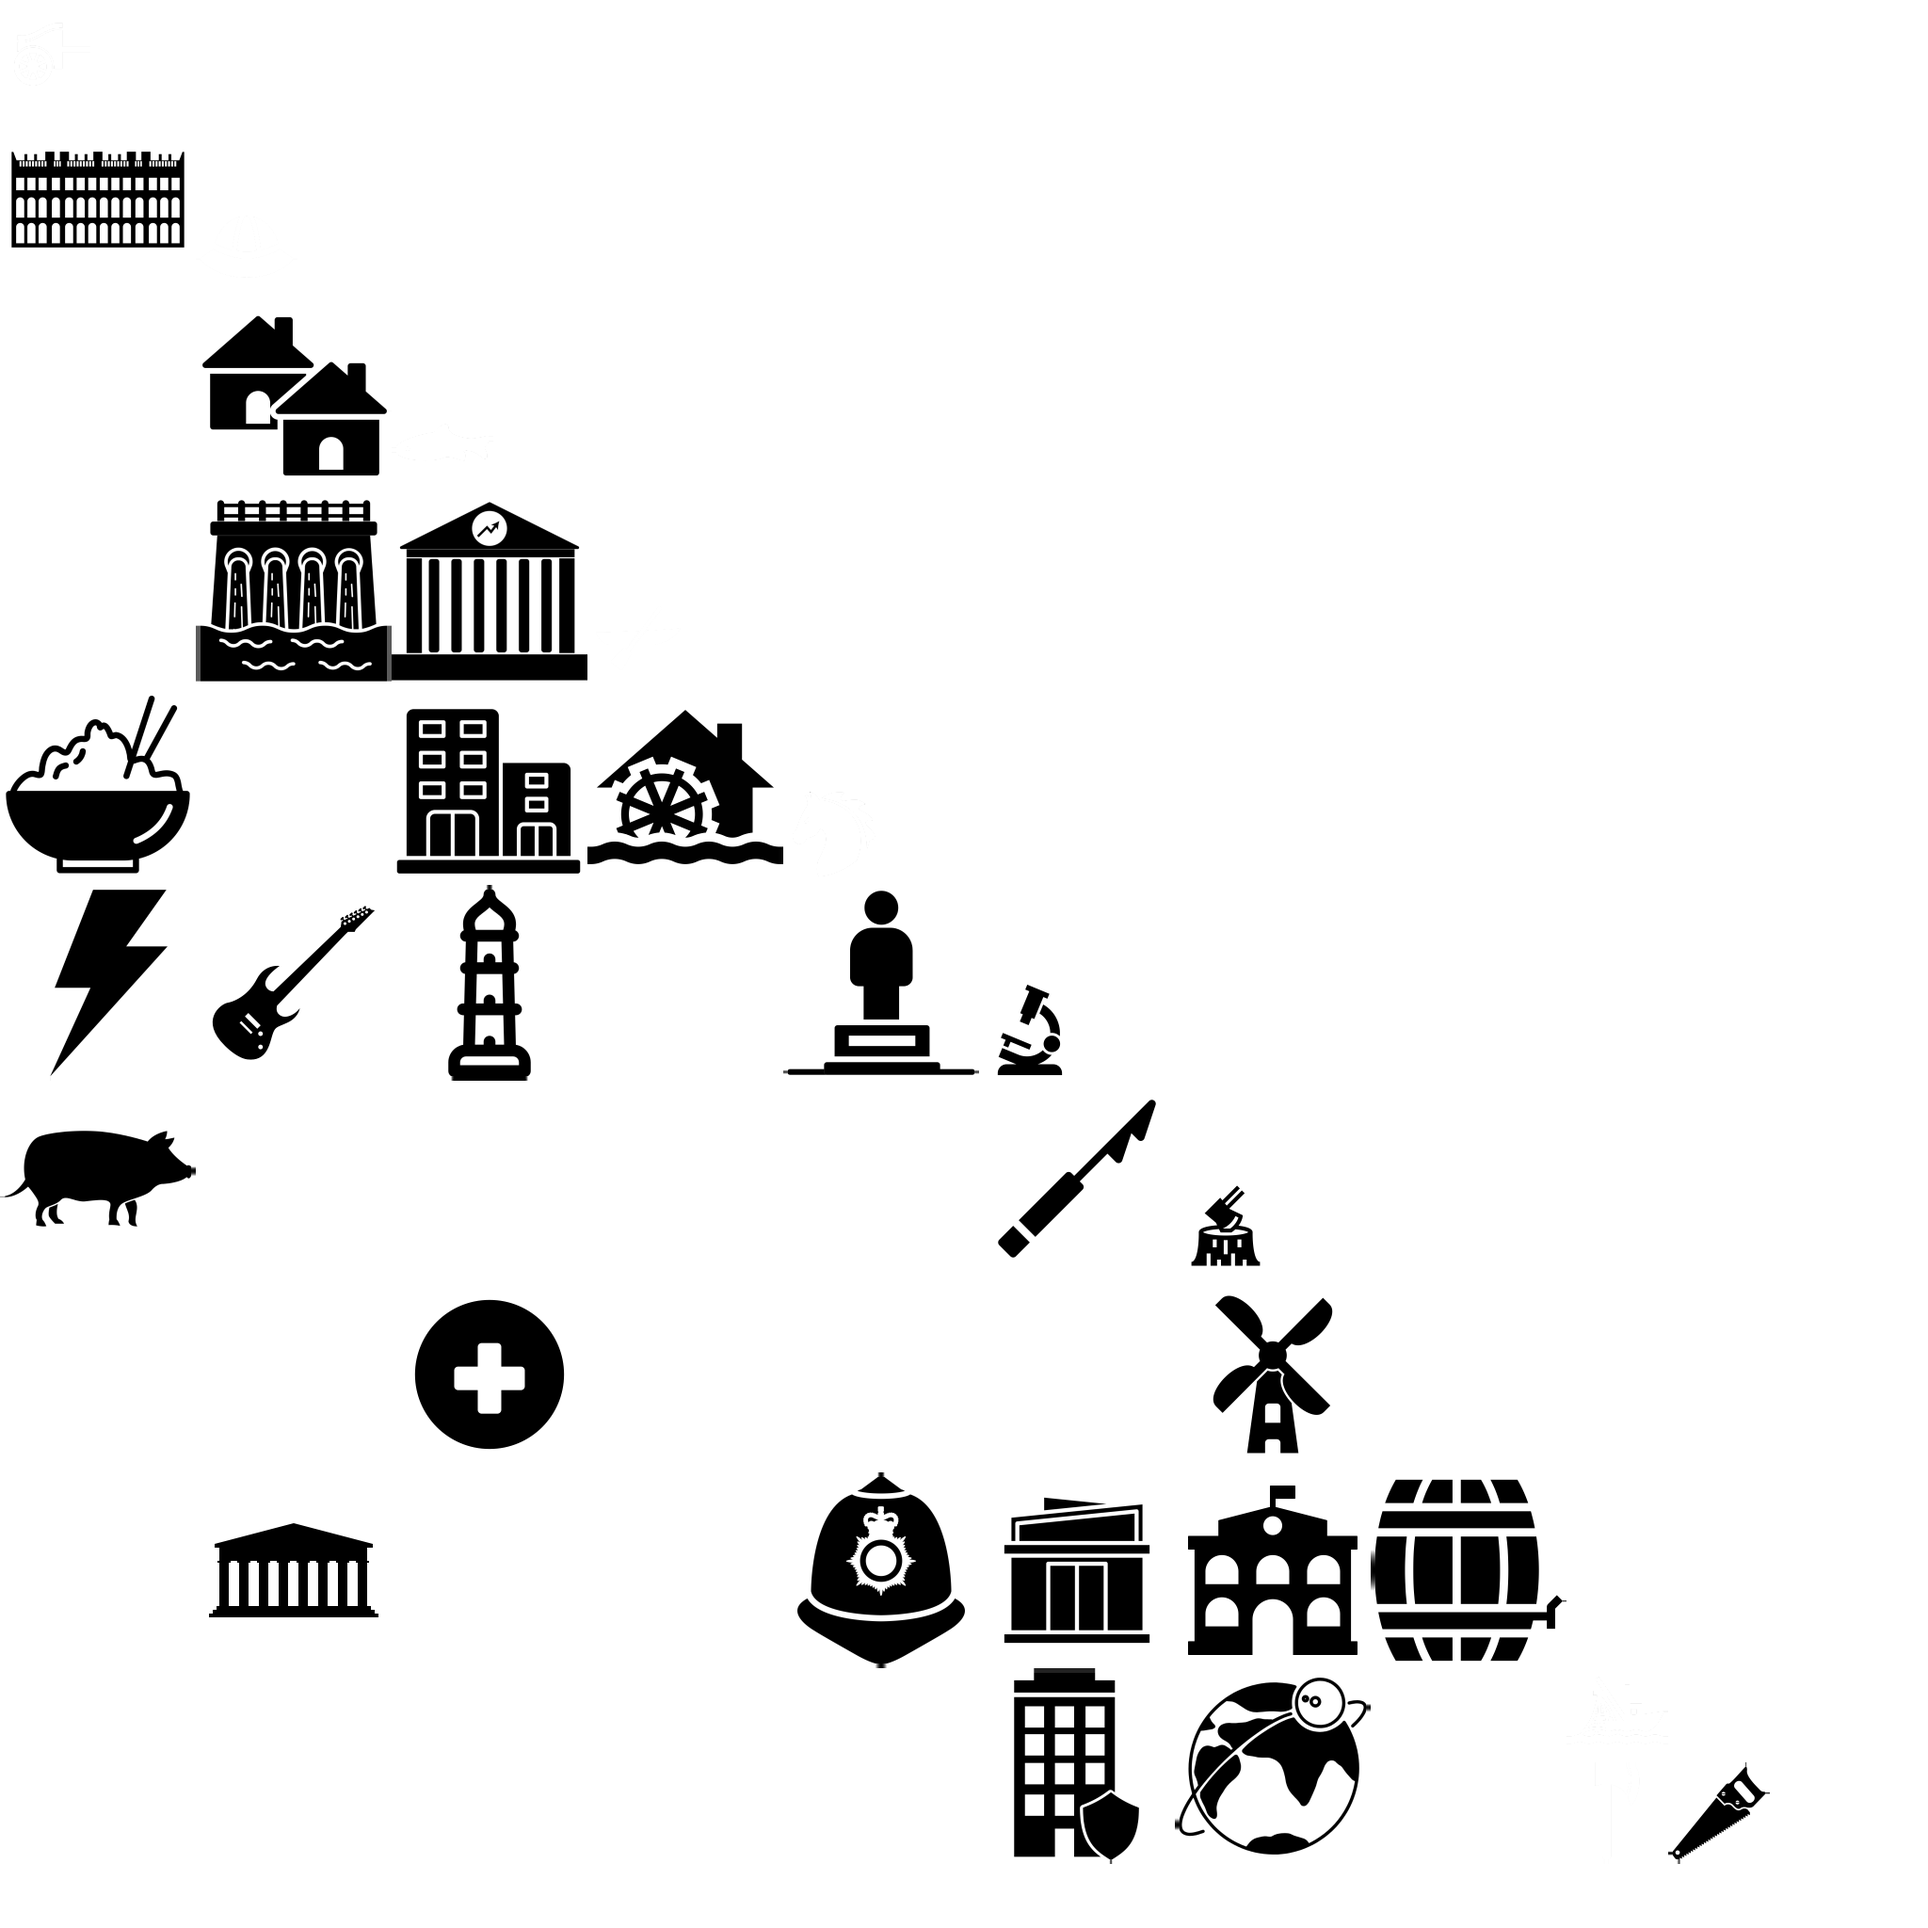
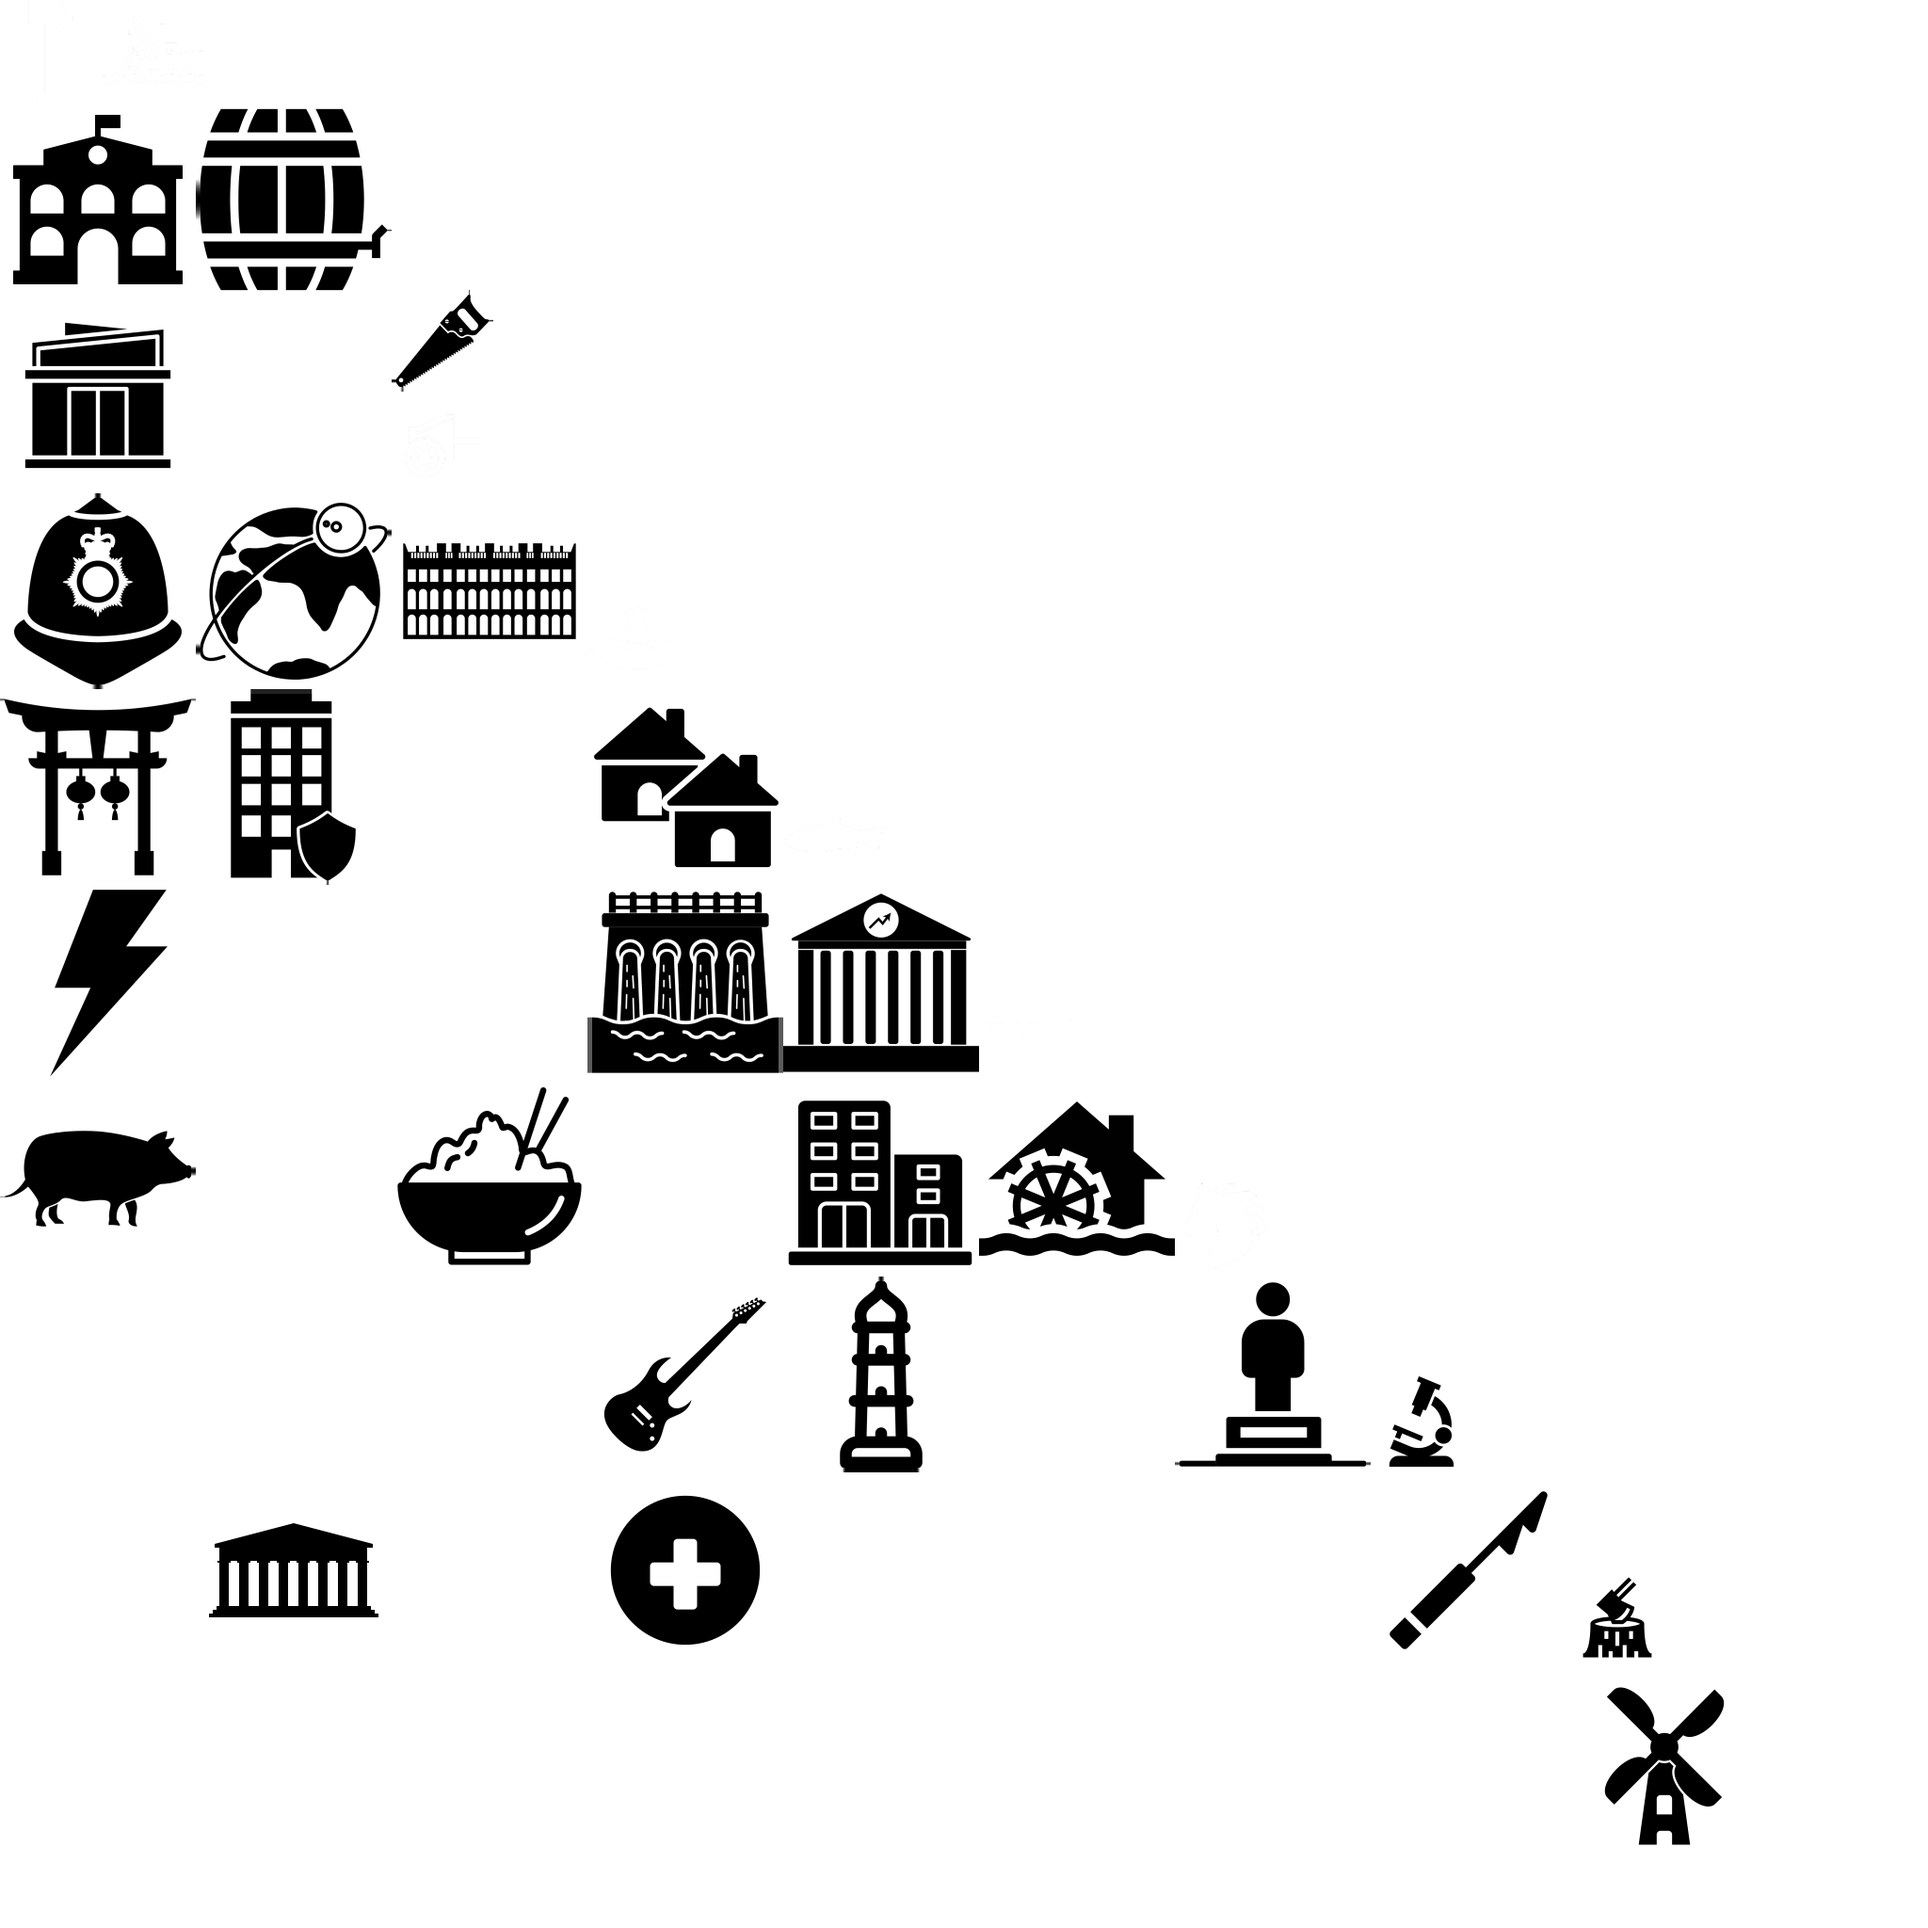
Religion updates

diff --git a/README.md b/README.md
@@ -34,6 +34,7 @@ All images are from The Noun Project, Creative Commons, unless otherwise specifi
 - [Mount Rushmore](https://thenounproject.com/icon/mount-rushmore-3263592/) by Symbolon for Mt. Rushmore
 - [Police Helmet](https://thenounproject.com/icon/police-helmet-4781/) for Scotland Yard
 - [Academy](https://thenounproject.com/icon/academy-3890710/) By Kevin
+- [Gate](https://thenounproject.com/icon/gate-6325375/) by ainul muttagin for Religious Shrine
 
 #### Improvements
 
@@ -90,6 +91,7 @@ All images are from The Noun Project, Creative Commons, unless otherwise specifi
 - [Marine](https://thenounproject.com/icon/marine-3048391/) by Eucalyp for Navy SEAL
 - [brick hammer](https://thenounproject.com/icon/brick-hammer-3147245/) by Vector Points for Fast Worker
 - [spartan helmet](https://thenounproject.com/icon/spartan-helmet-4588854/) for Phalanx
+- [Staff](https://thenounproject.com/icon/staff-3653184/) by Benjamin Jackson for Quechua
 
 #### Technologies
 
